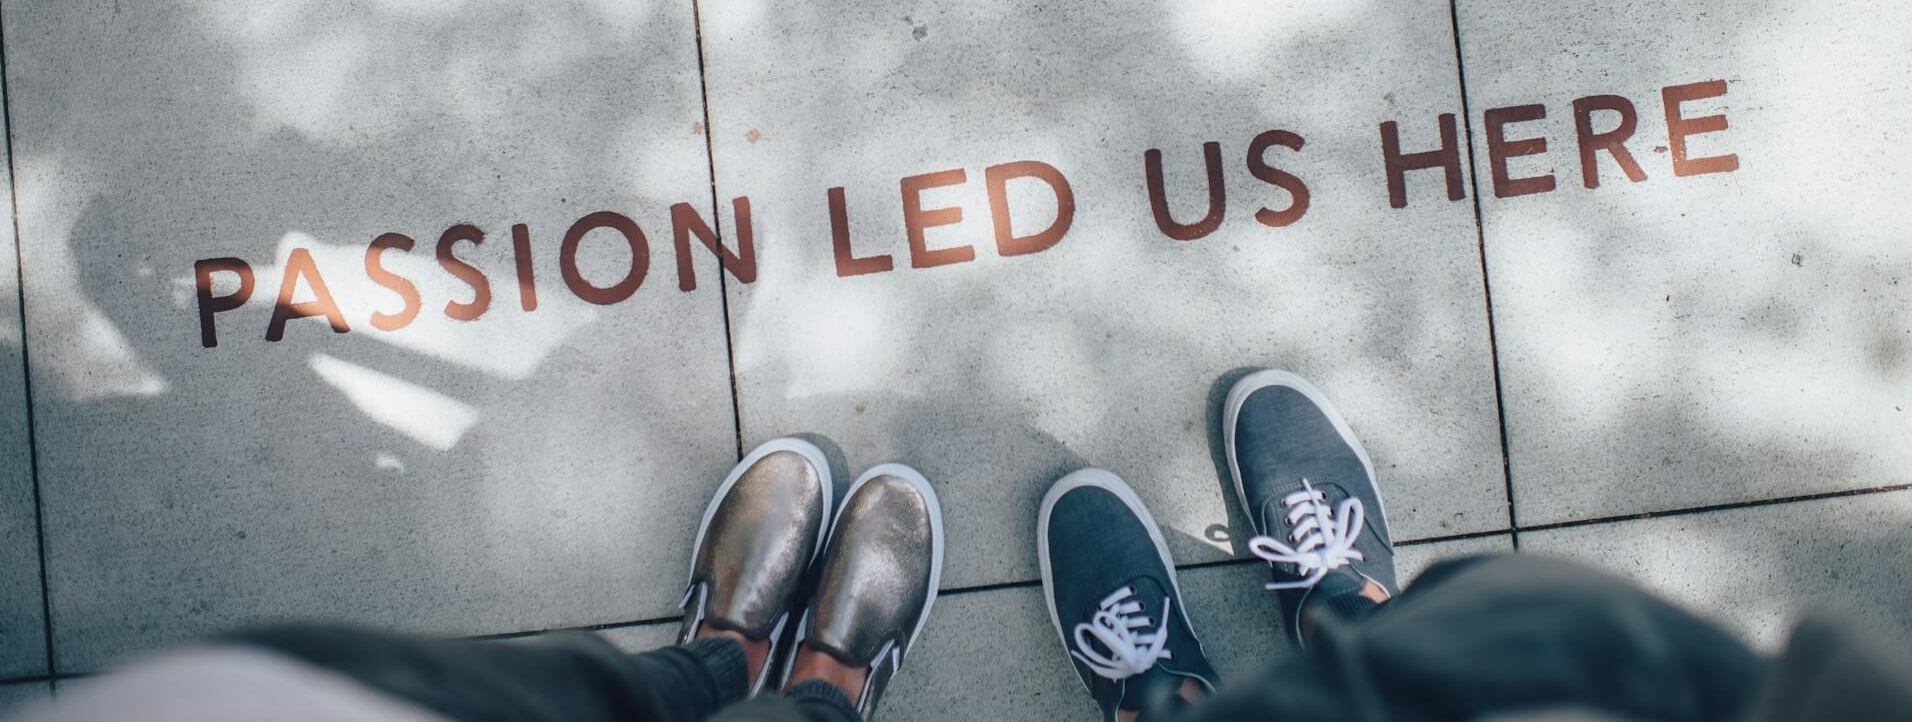
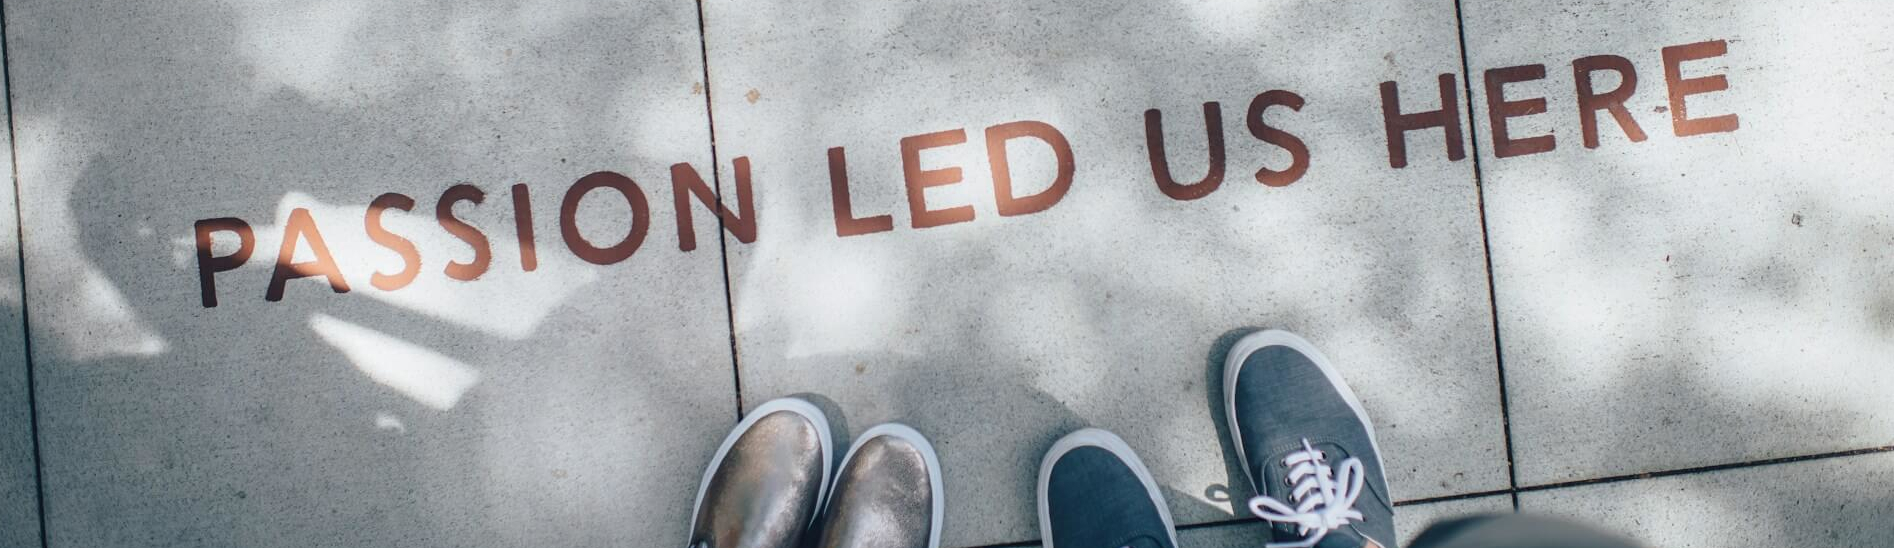
style: updated image formatting for services, about, and contact hero images

diff --git a/contact.html b/contact.html
@@ -90,10 +90,10 @@
   <div class="hero-section">
     <div class="hero">
       <picture>
-        <source srcset="./assets/images/pen-paper-bright.jpg" media="(max-width: 999px)">
-        <source srcset="./assets/images/pen-paper-bright-tablet.jpg" media="(min-width: 1000px) and (max-width: 1299px)">
-        <source srcset="./assets/images/pen-paper-bright-widescreen.jpg" media="(min-width: 1300px) and (max-width: 1450px)">
-        <source srcset="./assets/images/pen-paper-bright-extra-large.jpg" media="(min-width: 1450px)">
+        <source srcset="./assets/images/pen-paper-bright.jpg" media="(max-width: 700px)">
+        <source srcset="./assets/images/pen-paper-bright-tablet.jpg" media="(min-width: 701px) and (max-width: 965px)">
+        <source srcset="./assets/images/pen-paper-bright-widescreen.jpg" media="(min-width: 966px) and (max-width: 1450px)">
+        <source srcset="./assets/images/pen-paper-bright-extra-large.jpg" media="(min-width: 1451px)">
         <img src="./assets/images/pen-paper-bright.jpg" alt="Stock image of a saying on a sidewalk - Passion Led Us Here, with four shoes below it.">
       </picture>
       <!-- <figure>
